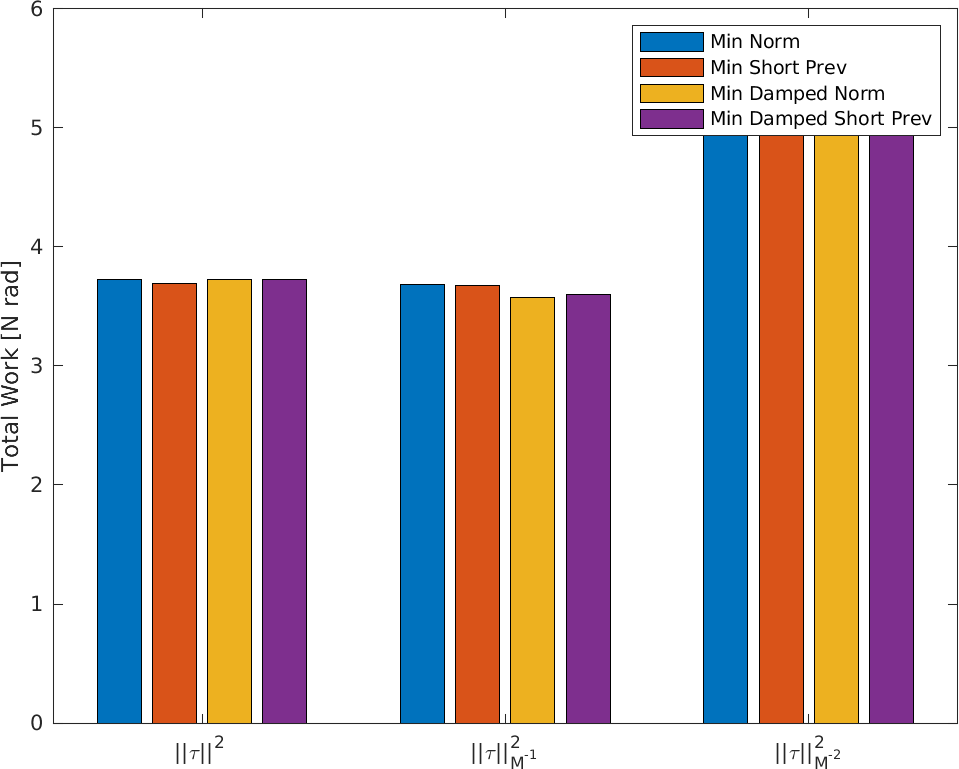
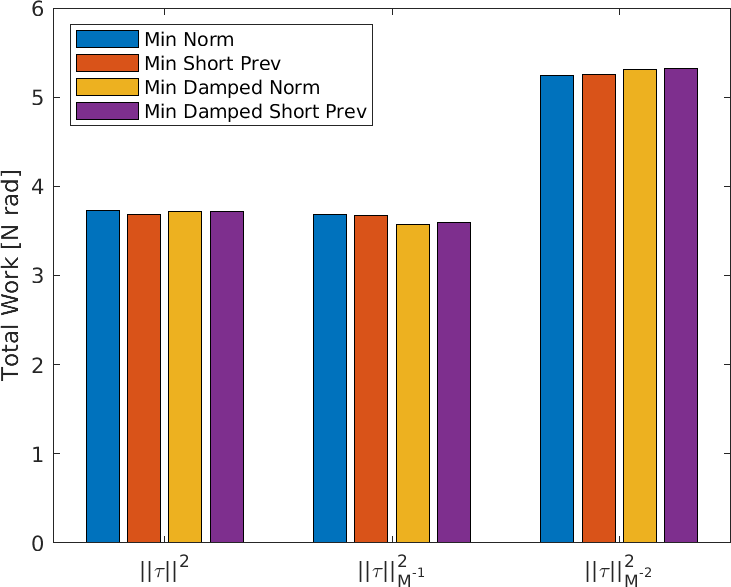
Fix w1=w2

diff --git a/RT.m b/RT.m
@@ -1,10 +1,12 @@
-function []=MBIWP(long, dt)
-% clear all
-% clc
-% close all
+% function []=MBP(long, dt)
+clear all
+clc
+close all
 
 syms q1 q2 q3 qd1 qd2 qd3 real
 
+long=1
+dt=0.01
 
 robot = rigidBodyTree('DataFormat','column','MaxNumBodies',4);
 
@@ -106,7 +108,7 @@ ys = (y1:dy:y2)'
 
 points = zeros(length(xs), 2);
 points(:,1) = xs;
-points(:,2) = ys;%*0 + 0.25;
+points(:,2) = ys;
 
 
 qd0 = [0;0;0];
@@ -138,15 +140,19 @@ KD = 1*eye(2);
 rd = [0;0];
 r = points(1,:).';
 
-p = 100;
-dp = p*dt; %T = pTs
+
+ %T = pTs
+
+VMAX = A*(T/2)
 
 w1 = 1
 w2 = 1
 for i = 1:count
     disp(i)
     disp(count)
-    
+    factor = (abs(rd(1)) / VMAX )
+    p = 100*(1-factor) + 1
+    dp = p*dt;
     if count - i < p
         p = (count -i + 2);
        dp = p*dt; 
@@ -195,13 +201,13 @@ for i = 1:count
     ];
 
     Q = [
-        w1*M1 + w2*dp^2*(S2.')*inv(M2)*S2, w2*dp*(S2.');
-        w2*dp*(S2.'), w2*M2
+        w1*M1^2 + w2*dp^2*(S2.')*S2, w2*dp*(S2.')*M2;
+        w2*dp*(S2.')*M2, w2*M2^2
     ];
 
     R = [
-        w1*S1*qd + w2*dp*(S2.')*inv(M2)*S2*qd;
-        w2*S2*qd
+        w1*M1*S1*qd+w2*dp*(S2.')*S2*qd;
+        w2*M2*S2*qd
     ];
 
     Q_inv = inv(Q);
@@ -225,5 +231,5 @@ for i = 1:count
     
 end
 
-save mats/MBIWP.mat qs qds qdds ts 
-end
+save mats/RT.mat qs qds qdds ts 
+% end

diff --git a/gen_plot.m b/gen_plot.m
@@ -3,7 +3,9 @@ function []=gen_plot(long, dt)
 % clc
 % close all
 plots = {'MTN', 'MBP', 'MTIWN', 'MBIWP', 'MTSIWN', 'MBSIWP', 'MTND', 'MBPD', 'MTIWND', 'MBIWPD', 'MTSIWND', 'MBSIWPD'}
-
+plots = {'RT'}
+long=1
+dt=0.1
 
 gcf = figure
 

diff --git a/MBP.m b/MBP.m
@@ -142,7 +142,7 @@ p = 100;
 dp = p*dt; %T = pTs
 
 w1 = 1
-w2 = 2
+w2 = 1
 for i = 1:count
     disp(i)
     disp(count)

diff --git a/MBPD.m b/MBPD.m
@@ -142,7 +142,7 @@ p = 100;
 dp = p*dt; %T = pTs
 
 w1 = 1
-w2 = 2
+w2 = 1
 for i = 1:count
     disp(i)
     disp(count)

diff --git a/MBSIWP.m b/MBSIWP.m
@@ -142,7 +142,7 @@ p = 100;
 dp = p*dt; %T = pTs
 
 w1 = 1
-w2 = 2
+w2 = 1
 for i = 1:count
     disp(i)
     disp(count)

diff --git a/MBIWPD.m b/MBIWPD.m
@@ -142,7 +142,7 @@ p = 100;
 dp = p*dt; %T = pTs
 
 w1 = 1
-w2 = 2
+w2 = 1
 
 D = 10*eye(3);
 

diff --git a/MBSIWPD.m b/MBSIWPD.m
@@ -142,7 +142,7 @@ p = 100;
 dp = p*dt; %T = pTs
 
 w1 = 1
-w2 = 2
+w2 = 1
 
 D = 10*eye(3)
 
